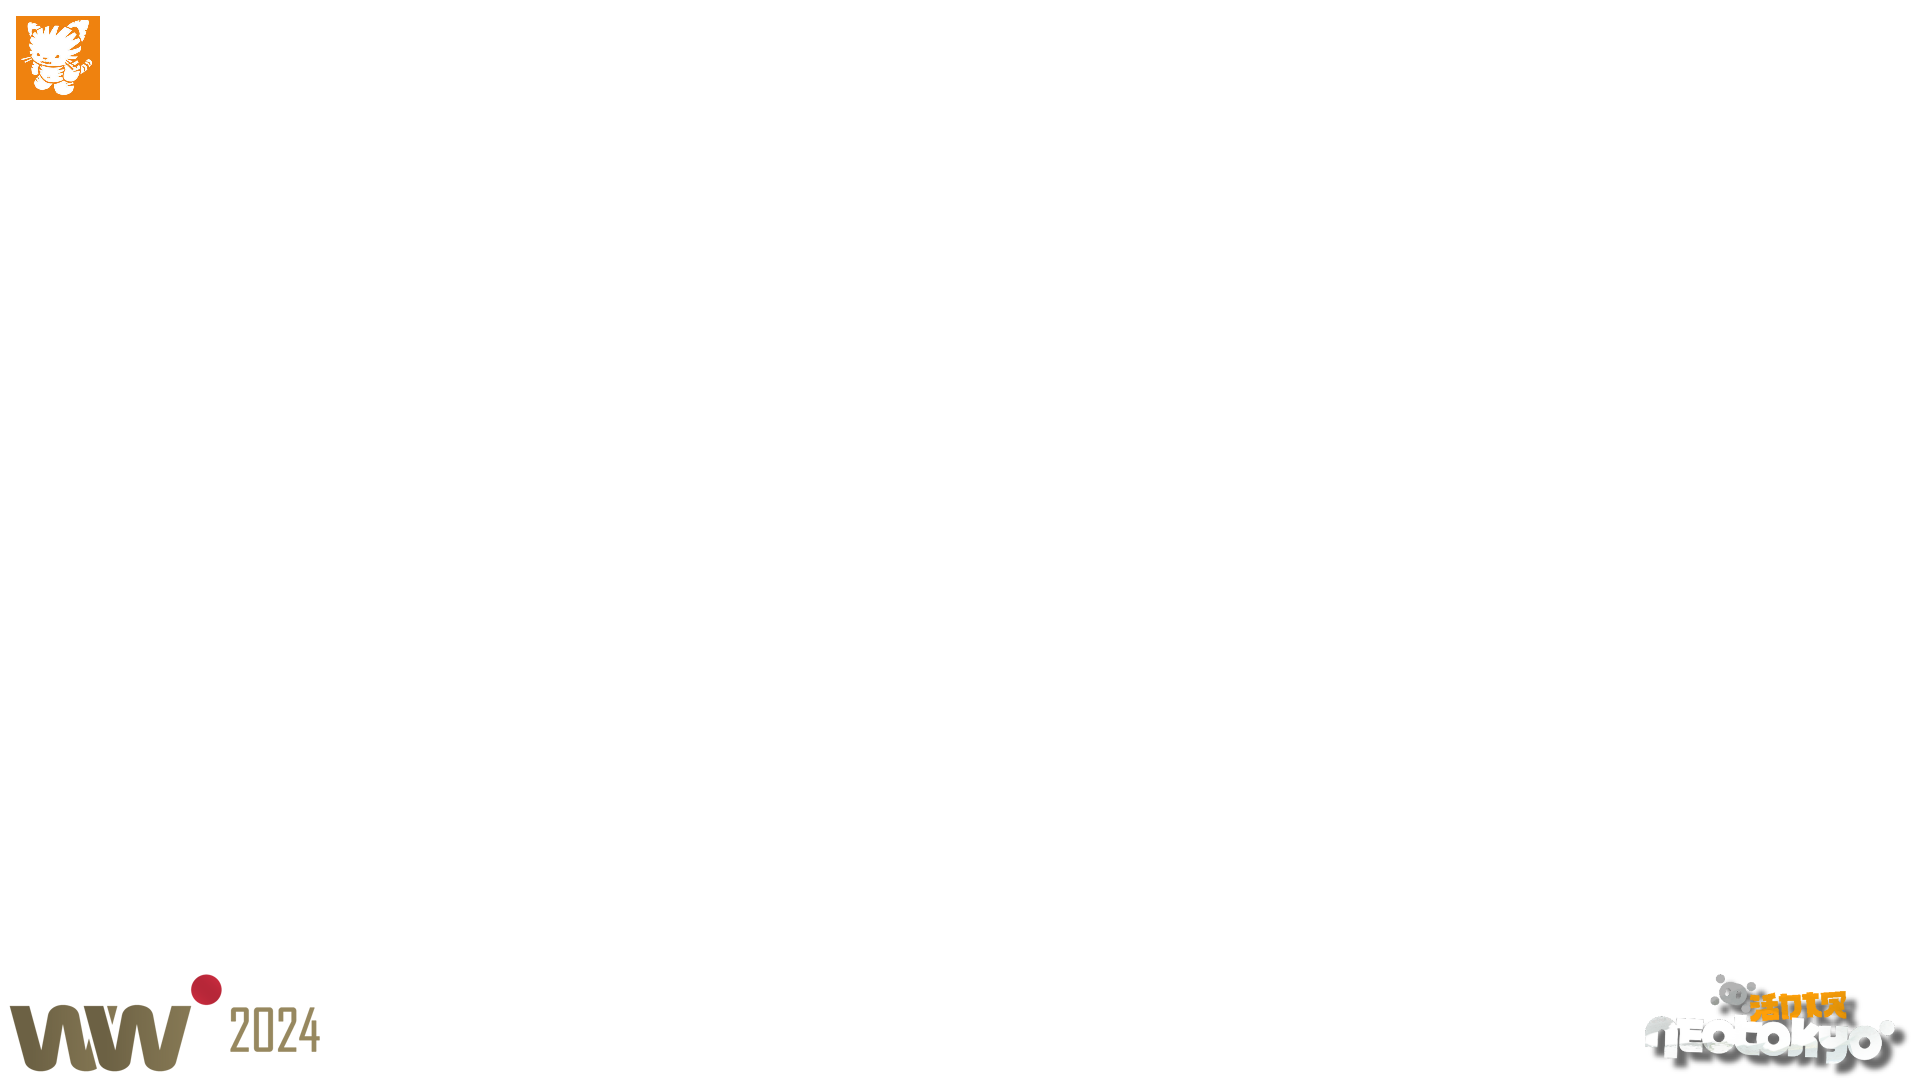
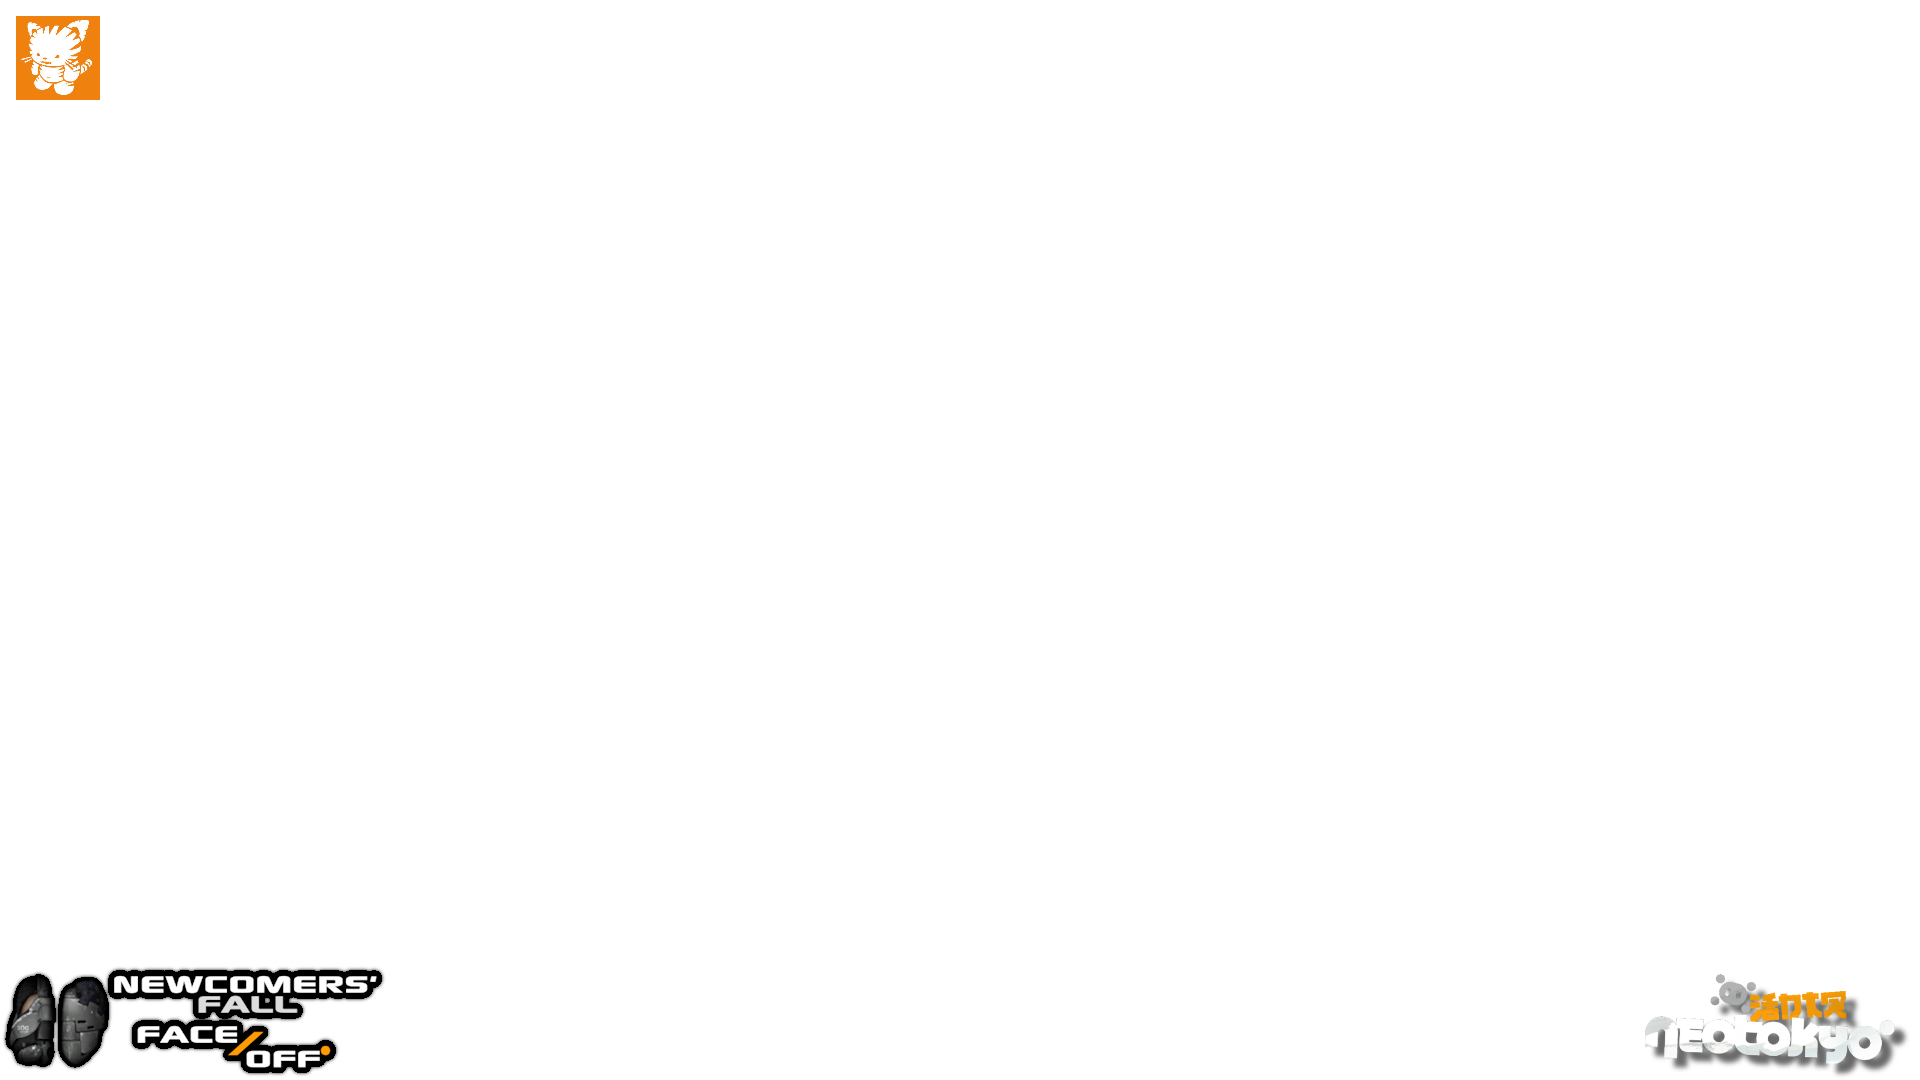
Newcomer's Fall Faceoff 2024

Changed region(s): [[0.0, 0.8861, 0.2188, 1.0]]

diff --git a/spec-client/public/manager.html b/spec-client/public/manager.html
@@ -51,65 +51,90 @@
                     logo: 'nsf.png'
                 },
                 {
-                    name: 'Sigmagumi',
-                    tag: '-SG-',
-                    logo: 'sigmagumi.png'
+                    name: 'Ragetroops',
+                    tag: '>:(',
+                    logo: 'r_quad.png',
                 },
                 {
-                    name: 'ARQUEBUS',
-                    tag: 'RQBS',
-                    logo: 'arquebus.png'
+                    name: 'Det Set Radio',
+                    tag: 'DSR',
+                    logo: 'dsr2t.png',
                 },
                 {
-                    name: 'NEOREO',
-                    tag: 'OREO',
-                    logo: 'neoreo.png'
+                    name: 'Halabamos',
+                    tag: 'XYZ',
+                    logo: 'halabamos.gif',
                 },
                 {
-                    name: 'TOKYO THUGS',
-                    tag: 'THUG',
-                    logo: 'thugs.png'
+                    name: 'TWUDCOOH',
+                    tag: 'TWUDCOOH',
+                    logo: 'twudcooh.png',
                 },
                 {
-                    name: 'Team Genius',
-                    tag: 'GENIUS',
-                    logo: 'genius.png'
+                    name: 'Sons of Liberty',
+                    tag: 'SOL',
+                    logo: 'sol.jpg',
                 },
-                {
-                    name: '4 HorseMen',
-                    tag: '4',
-                    logo: 'horsemen.jpg'
-                },
-                {
-                    name: 'Flatliners',
-                    tag: '---',
-                    logo: 'flatliners.gif'
-                },
-                {
-                    name: '6th Seal Mobility',
-                    tag: '6thMob',
-                    logo: '6thmob.jpg'
-                },
-                {
-                    name: 'Ghostcuddlers',
-                    tag: 'GC',
-                    logo: 'cuddlers.png'
-                },
-                {
-                    name: 'NYAKO',
-                    tag: 'NYAKO',
-                    logo: 'nyako.png'
-                },
-                {
-                    name: 'Liu Association',
-                    tag: 'Liu',
-                    logo: 'liu.png'
-                },
-                {
-                    name: "Stranger's Quartet",
-                    tag: 'SQ',
-                    logo: 'strangers.jpg'
-                },
+                // {
+                //     name: 'Sigmagumi',
+                //     tag: '-SG-',
+                //     logo: 'sigmagumi.png'
+                // },
+                // {
+                //     name: 'ARQUEBUS',
+                //     tag: 'RQBS',
+                //     logo: 'arquebus.png'
+                // },
+                // {
+                //     name: 'NEOREO',
+                //     tag: 'OREO',
+                //     logo: 'neoreo.png'
+                // },
+                // {
+                //     name: 'TOKYO THUGS',
+                //     tag: 'THUG',
+                //     logo: 'thugs.png'
+                // },
+                // {
+                //     name: 'Team Genius',
+                //     tag: 'GENIUS',
+                //     logo: 'genius.png'
+                // },
+                // {
+                //     name: '4 HorseMen',
+                //     tag: '4',
+                //     logo: 'horsemen.jpg'
+                // },
+                // {
+                //     name: 'Flatliners',
+                //     tag: '---',
+                //     logo: 'flatliners.gif'
+                // },
+                // {
+                //     name: '6th Seal Mobility',
+                //     tag: '6thMob',
+                //     logo: '6thmob.jpg'
+                // },
+                // {
+                //     name: 'Ghostcuddlers',
+                //     tag: 'GC',
+                //     logo: 'cuddlers.png'
+                // },
+                // {
+                //     name: 'NYAKO',
+                //     tag: 'NYAKO',
+                //     logo: 'nyako.png'
+                // },
+                // {
+                //     name: 'Liu Association',
+                //     tag: 'Liu',
+                //     logo: 'liu.png'
+                // },
+                // {
+                //     name: "Stranger's Quartet",
+                //     tag: 'SQ',
+                //     logo: 'strangers.jpg'
+                // },
                 // {
                 //     name: 'Auxless',
                 //     tag: 'AUX',

diff --git a/spec-client/index.js b/spec-client/index.js
@@ -18,7 +18,7 @@ const avatarCache = {};
 
 const overlayStateTemplate = {
     show: true,
-    name: 'Summer Skirmish 2024',
+    name: "Newcomer's Fall Faceoff 2024",
     jinrai: {
         name: '',
         tag: 'Jinrai',
@@ -35,10 +35,10 @@ const overlayStateTemplate = {
 
 const serverMap = {};
 const serverList = [
-    ['bonAHNSa.com', 'hidden', '74.91.123.81', '27015', '12346'],
+    ['BonAHNSa.com', 'bonahnsa', '74.91.123.81', '27015', '12346'],
     ['sweaty and tryhard', 'sweaty', '185.107.96.11', '27015', '12346'],
     ['baux.site', 'baux', '159.69.19.20', '1331', '12346'],
-    ['Bulletnauts', 'Bulletnauts', '94.130.231.245', '27017', '12346'],
+    ['Bulletnauts', 'bulletnauts', '94.130.231.245', '27017', '12346'],
     // ['Agiel\'s', 'agiel', '98.128.173.190', '27015', '12346'],
 
 ].map((server) => {

diff --git a/spec-client/src/store.js b/spec-client/src/store.js
@@ -261,7 +261,7 @@ async function handleMessage(data) {
             document.title = serverName;
             store.currentMap = parts[1];
 
-            const match = serverName.match(/(hidden|sweaty|baux|agiel|dunno)/i);
+            const match = serverName.match(/(bonahnsa|sweaty|baux|bulletnauts|agiel)/i);
             if (match != null) {
                 connectManager(match[1].toLowerCase());
             }
